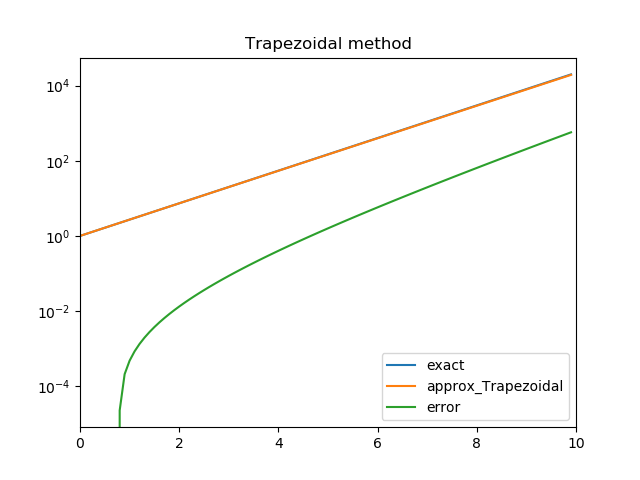
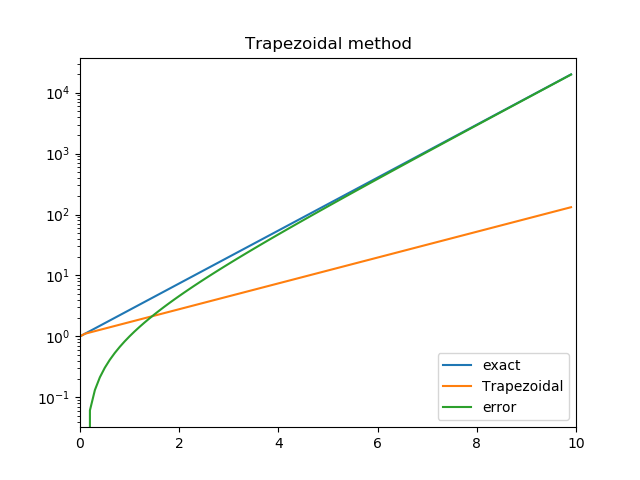
modify lecture3 coding

diff --git a/src/lecture3.py b/src/lecture3.py
@@ -16,8 +16,13 @@ if __name__ == '__main__':
     t = np.zeros(n + 1)
     f_exact = np.zeros(n + 1)
     f_approx = np.zeros(n + 1)
+    g_approx = np.zeros(n + 1)
+    h_approx = np.zeros(n + 1)
 
     setup_conditions.lec3(n, dt, t, f_exact)
+
+    # read csv file
+    excel = np.loadtxt('../data/lecture3/csv/Excel/dt_0.1.csv', delimiter=',')
 
     # calculation
     ''' Euler method '''
@@ -38,11 +43,11 @@ if __name__ == '__main__':
         print("{}, {}, {}, {}".format(t[i], f_exact[i],
                                       f_approx[i], error[i]))
 
-    # graph
+    # graph1
     fig, ax = plt.subplots()
     ax.plot(t[:-1], f_exact[:-1], label='exact')
-    ax.plot(t[:-1], f_approx[:-1], label='approx_Euler')
-    ax.plot(t[:-1], error[:-1], label='error')
+    ax.plot(t[:-1], f_approx[:-1], label='Euler')
+    ax.plot(t[:-1], error[:-1], label='error_Euler')
     plt.title("Euler method")
     plt.legend(loc='lower right')
     plt.xlim(np.min(t), np.max(t))
@@ -51,13 +56,26 @@ if __name__ == '__main__':
     os.makedirs('../data/lecture3/images/Euler', exist_ok=True)
     fig.savefig('../data/lecture3/images/Euler/dt_{}.png'.format(dt))
 
+    # graph2
+    fig, ax = plt.subplots()
+    ax.plot(t[:-1], error[:-1], label='error_Euler')
+    ax.plot(t[:-1], np.abs(f_exact[:-1] - excel[:, 1]), label='error_Excel')
+    ax.plot(t[:-1], np.abs(f_approx[:-1] - excel[:, 1]), label='abs(Euler - Excel)')
+    plt.title("A comparison with Euler and Excel")
+    plt.legend(loc='lower right')
+    plt.xlim(np.min(t), np.max(t))
+    plt.yscale("log")
+    # plt.show()
+    os.makedirs('../data/lecture3/images/error/Euler', exist_ok=True)
+    fig.savefig('../data/lecture3/images/error/Euler/dt_{}.png'.format(dt))
+
     ''' Adams-Bashforth method '''
-    f_approx[0], f_approx[1] = f_exact[0], f_exact[1]  # I.C.
-    diff.lec3_ab(n, dt, f_approx)
-    error = f_exact - f_approx
+    g_approx[0], g_approx[1] = f_exact[0], f_exact[1]  # I.C.
+    diff.lec3_ab(n, dt, g_approx)
+    error = f_exact - g_approx
 
     # write csv file
-    m_ab = np.transpose(np.stack([t[:-1], f_exact[:-1], f_approx[:-1], error[:-1]]))
+    m_ab = np.transpose(np.stack([t[:-1], f_exact[:-1], g_approx[:-1], error[:-1]]))
     os.makedirs('../data/lecture3/csv/Adams-Bashforth', exist_ok=True)
     np.savetxt('../data/lecture3/csv/Adams-Bashforth/dt_{}.csv'.format(dt),
                m_ab, delimiter=',', fmt='%.16f', header="t,f_exact,f_approx,error")
@@ -67,13 +85,13 @@ if __name__ == '__main__':
     print("time, f_exact, f_approx, error\n")
     for i in range(1, n):
         print("{}, {}, {}, {}".format(t[i], f_exact[i],
-                                      f_approx[i], error[i]))
+                                      g_approx[i], error[i]))
 
-    # graph
+    # graph1
     fig, ax = plt.subplots()
     ax.plot(t[:-1], f_exact[:-1], label='exact')
-    ax.plot(t[:-1], f_approx[:-1], label='approx_Adams-Bashforth')
-    ax.plot(t[:-1], error[:-1], label='error')
+    ax.plot(t[:-1], g_approx[:-1], label='Adams-Bashforth')
+    ax.plot(t[:-1], error[:-1], label='error_Adams-Bashforth')
     plt.title("Adams-Bashforth method")
     plt.legend(loc='lower right')
     plt.xlim(np.min(t), np.max(t))
@@ -82,13 +100,26 @@ if __name__ == '__main__':
     os.makedirs('../data/lecture3/images/Adams-Bashforth', exist_ok=True)
     fig.savefig('../data/lecture3/images/Adams-Bashforth/dt_{}.png'.format(dt))
 
+    # graph2
+    fig, ax = plt.subplots()
+    ax.plot(t[:-1], error[:-1], label='error_Adams-Bashforth')
+    ax.plot(t[:-1], np.abs(f_exact[:-1] - excel[:, 2]), label='error_Excel')
+    ax.plot(t[:-1], np.abs(g_approx[:-1] - excel[:, 2]), label='abs(Adams-Bashforth - Excel)')
+    plt.title("A comparison with Adams-Bashforth and Excel")
+    plt.legend(loc='lower right')
+    plt.xlim(np.min(t), np.max(t))
+    plt.yscale("log")
+    # plt.show()
+    os.makedirs('../data/lecture3/images/error/Adams-Bashforth', exist_ok=True)
+    fig.savefig('../data/lecture3/images/error/Adams-Bashforth/dt_{}.png'.format(dt))
+
     ''' Trapezoidal method '''
-    f_approx[0], f_approx[1] = f_exact[0], f_exact[1]  # I.C.
-    diff.lec3_tra(n, dt, f_approx)
-    error = f_exact - f_approx
+    h_approx[0], h_approx[1] = f_exact[0], f_exact[1]  # I.C.
+    diff.lec3_tra(n, dt, h_approx)
+    error = f_exact - h_approx
 
     # write csv file
-    m_tra = np.transpose(np.stack([t[:-1], f_exact[:-1], f_approx[:-1], error[:-1]]))
+    m_tra = np.transpose(np.stack([t[:-1], f_exact[:-1], h_approx[:-1], error[:-1]]))
     os.makedirs('../data/lecture3/csv/Trapezoidal', exist_ok=True)
     np.savetxt('../data/lecture3/csv/Trapezoidal/dt_{}.csv'.format(dt),
                m_tra, delimiter=',', fmt='%.16f', header="t,f_exact,f_approx,error")
@@ -98,12 +129,12 @@ if __name__ == '__main__':
     print("time, f_exact, f_approx, error\n")
     for i in range(1, n):
         print("{}, {}, {}, {}".format(t[i], f_exact[i],
-                                      f_approx[i], error[i]))
+                                      h_approx[i], error[i]))
 
-    # graph
+    # graph1
     fig, ax = plt.subplots()
     ax.plot(t[:-1], f_exact[:-1], label='exact')
-    ax.plot(t[:-1], f_approx[:-1], label='approx_Trapezoidal')
+    ax.plot(t[:-1], h_approx[:-1], label='Trapezoidal')
     ax.plot(t[:-1], error[:-1], label='error')
     plt.title("Trapezoidal method")
     plt.legend(loc='lower right')
@@ -112,3 +143,4 @@ if __name__ == '__main__':
     # plt.show()
     os.makedirs('../data/lecture3/images/Trapezoidal', exist_ok=True)
     fig.savefig('../data/lecture3/images/Trapezoidal/dt_{}.png'.format(dt))
+
